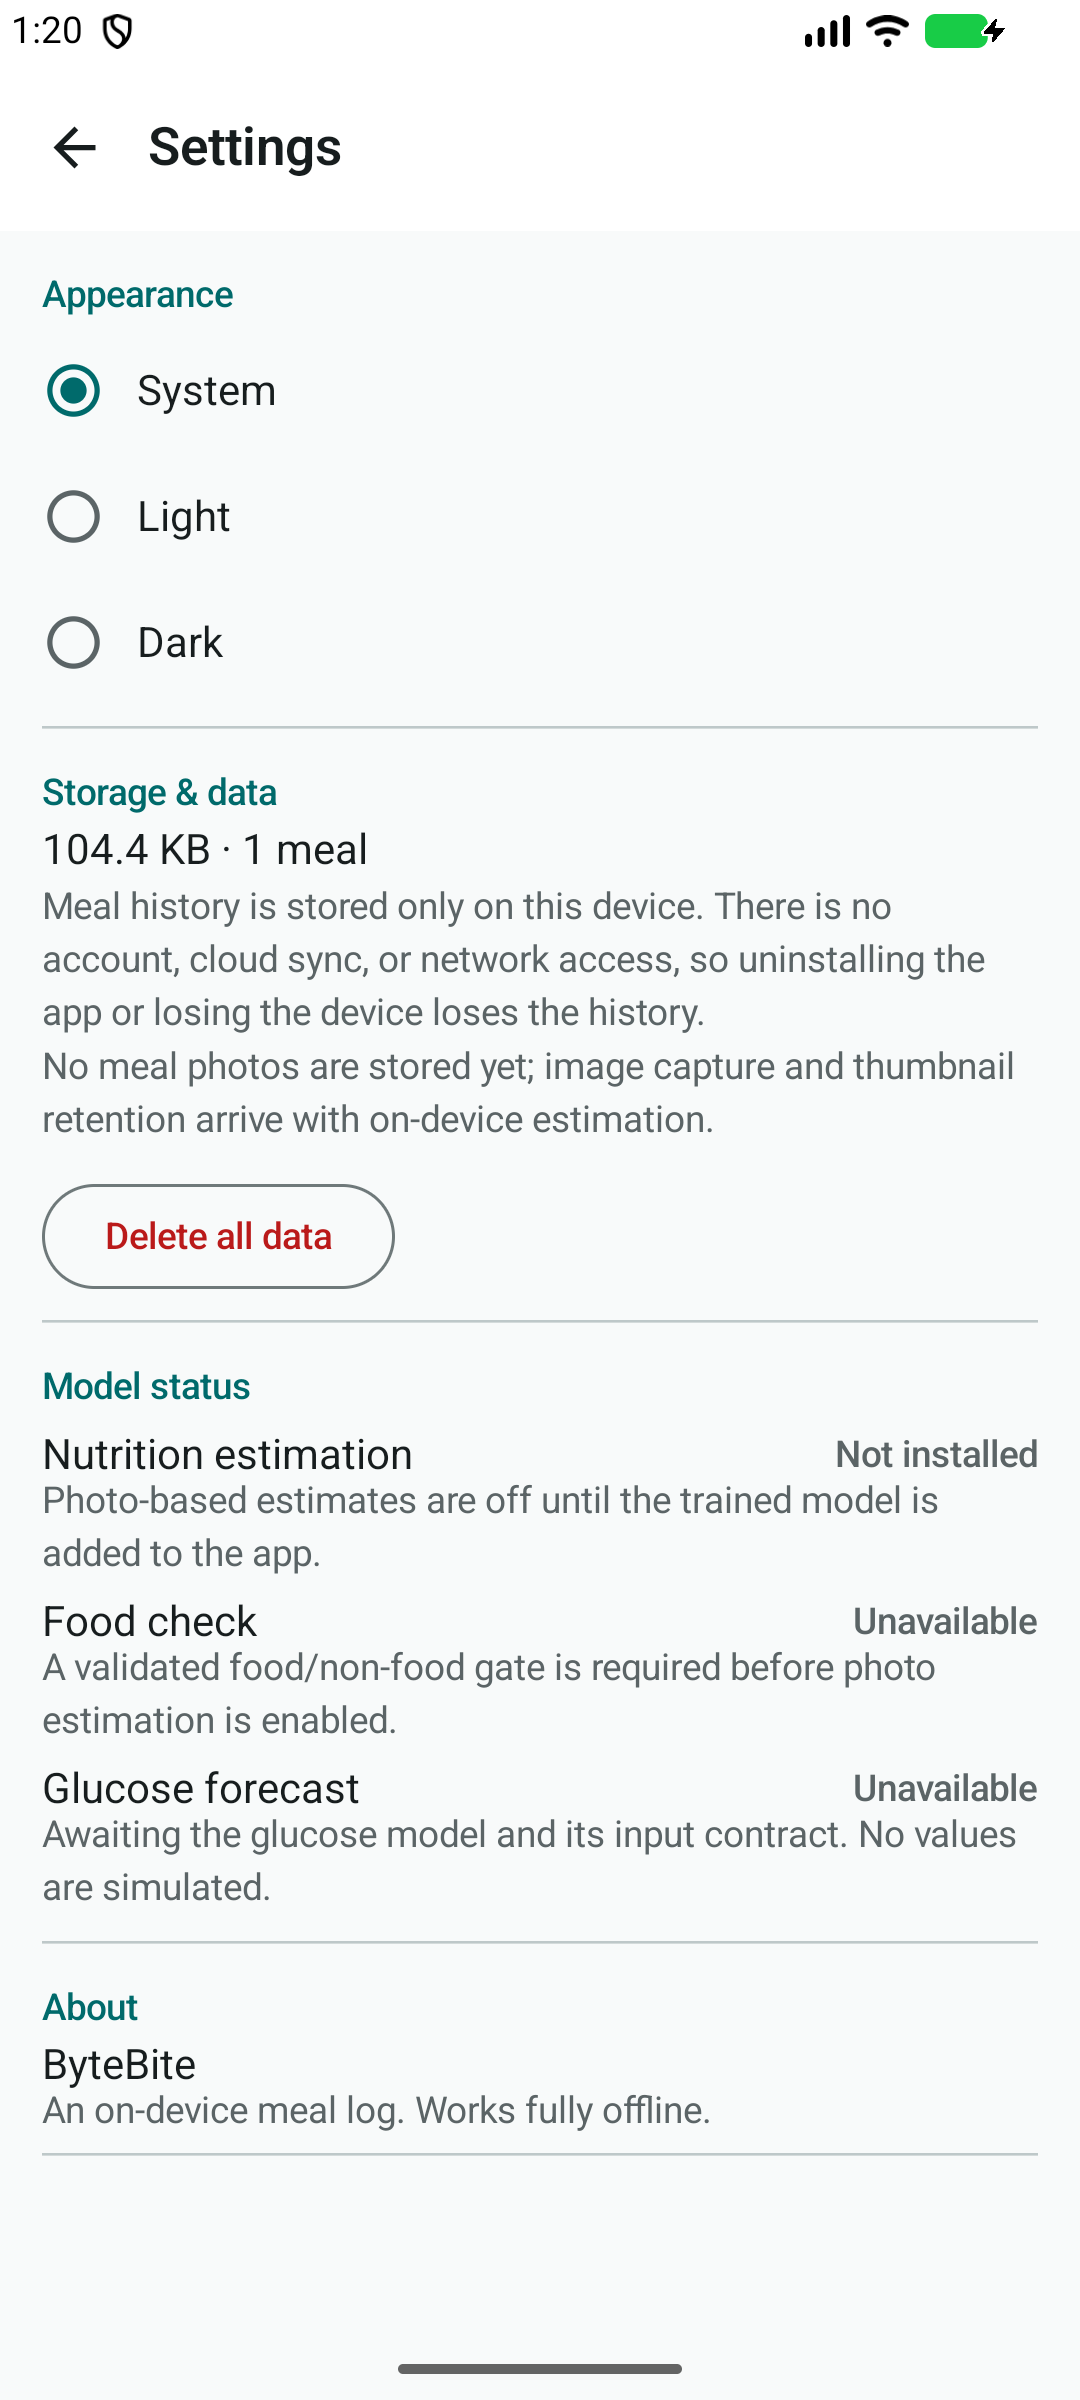
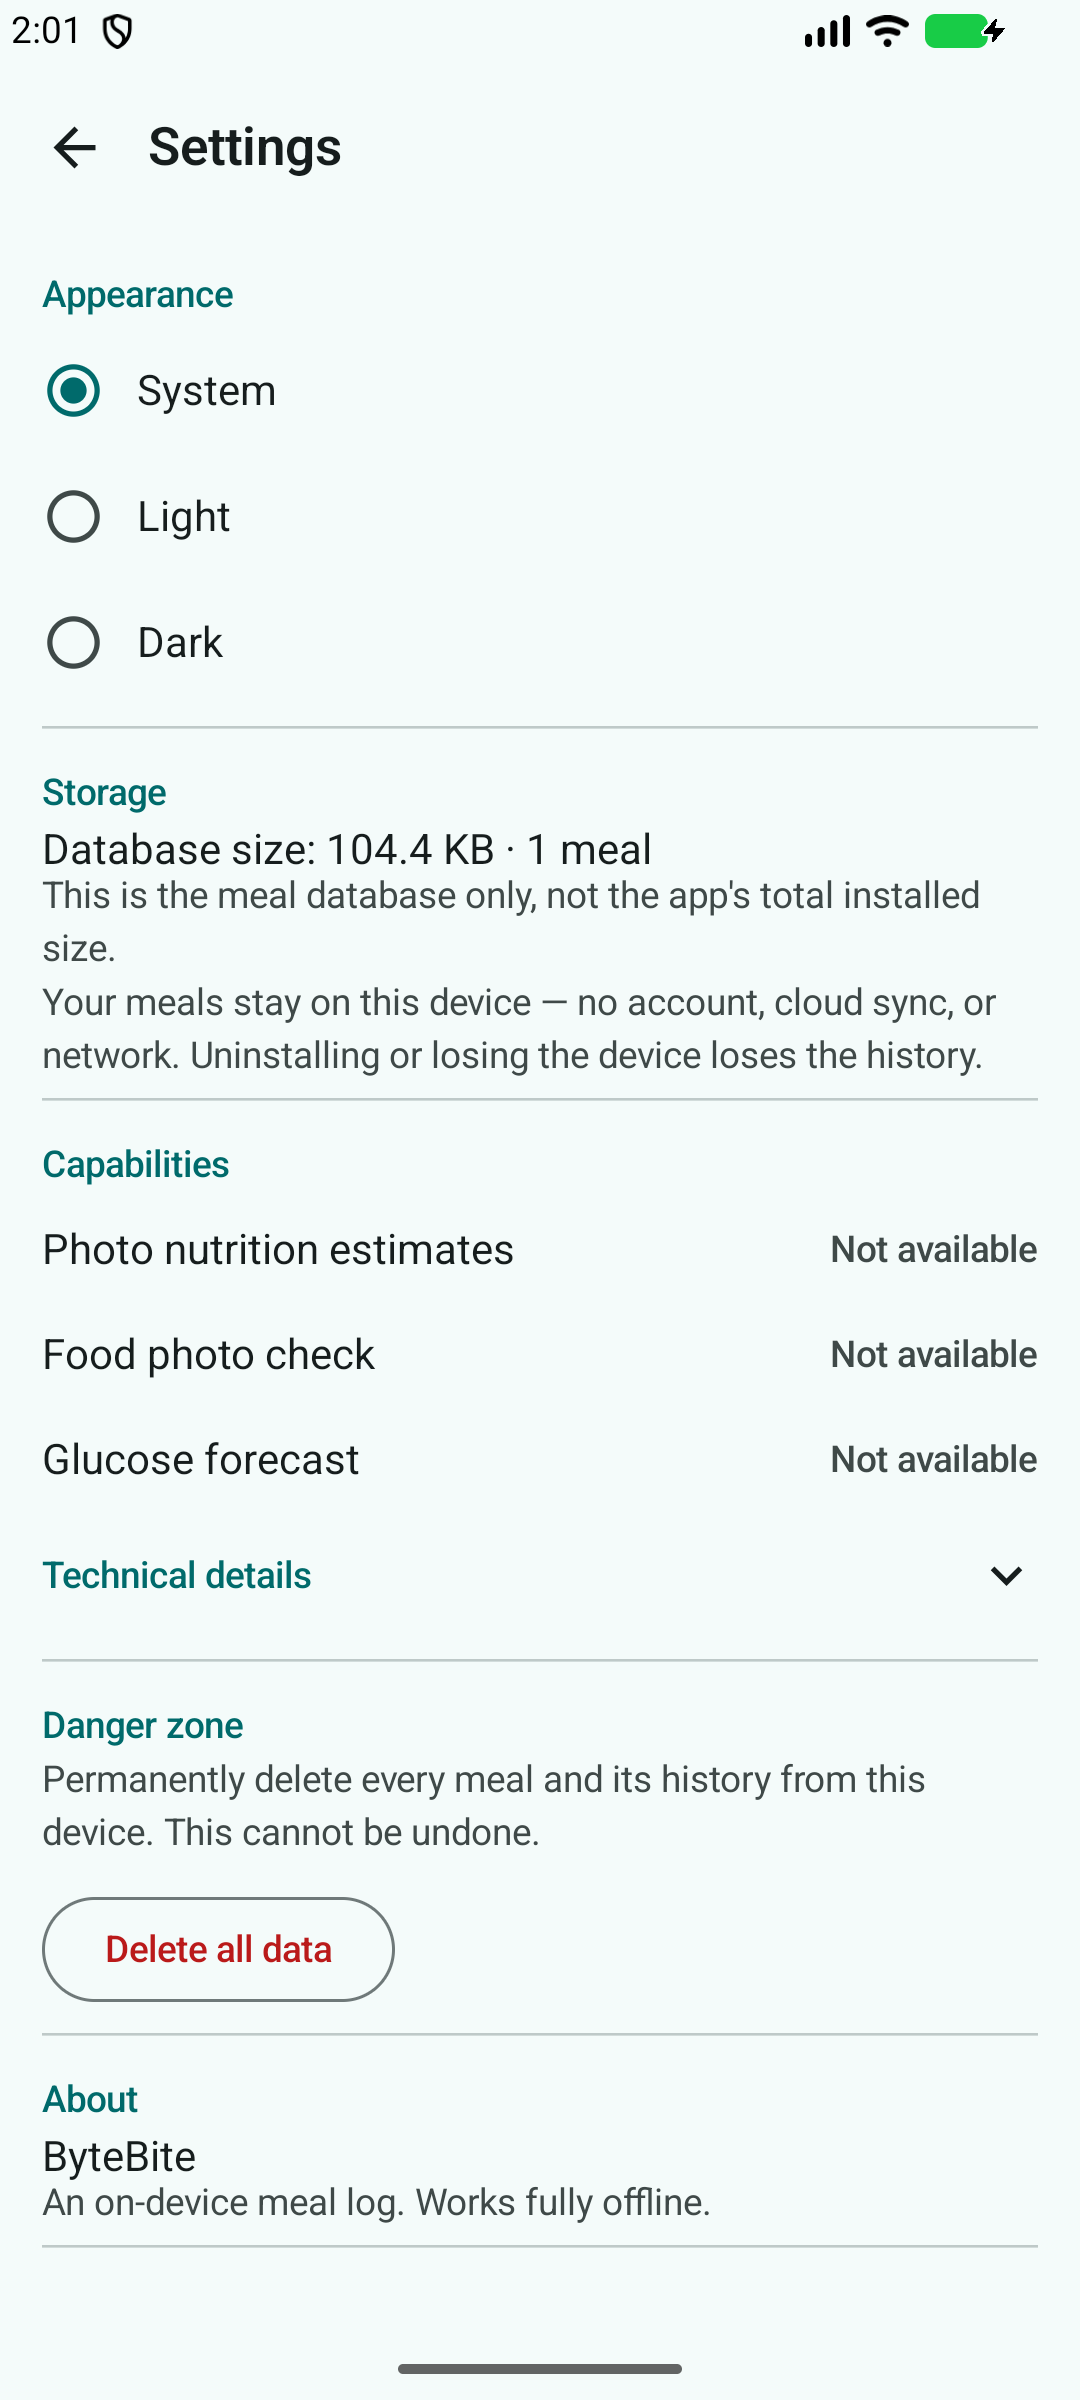
Document fixtures provenance, refresh design screenshots and status

diff --git a/docs/implementation/status.md b/docs/implementation/status.md
@@ -30,6 +30,34 @@ explicit number-parsing policy (#5), partial-total handling that still counts a
 meal with unknown values (#6), Today day-rollover on resume (#7), and an
 observed single-query + LazyColumn history (#8).
 
+## Update — design-system, privacy, and reliability pass
+
+- **Color system completed**: every Material role defined for light and dark
+  from the teal/slate palette, removing the unintended violet from the
+  navigation indicator, dialogs, and container surfaces. Status/navigation bar
+  icon contrast now follows the resolved theme.
+- **Today** summary is responsive (one row, else 2x2) and holds up at 200% font
+  (units no longer wrap mid-word); unknown ("—") vs known-zero ("0") vs partial
+  ("Known totals") stay distinct.
+- **Privacy/backup**: the meal database (and future meal images) are excluded
+  from OS cloud backup and device transfer; README/README_MODEL/data-storage
+  text updated to match; `BackupRulesTest` guards it.
+- **Settings**: concise capability statuses with technical detail in an
+  expandable, storage figure labelled "Database size" (not total app size),
+  destructive delete moved to a "Danger zone"; delete-all has progress, a
+  retryable failure path (data intact), success feedback, cancellation-safe
+  handling, and an injectable IO dispatcher.
+- **Add/Edit**: discard-changes confirmation on back once the form is dirty;
+  the edited flag survives process recreation.
+- **Fixtures**: `androidTest/assets/photocheck/README.md` documents the 27
+  food/non-food images as held-out software-behaviour fixtures and flags that
+  their per-image source/license is not yet recorded and must be confirmed
+  before reliance/publication.
+
+Verified on the emulator: Today (empty / populated / partial), Settings, and
+light + dark themes, plus a 200% font-scale pass. Not yet exercised this pass:
+a 320 dp narrow device, landscape, and TalkBack (reported as unverified).
+
 ## Build environment (verified this session)
 
 - JDK: Android Studio **JBR 21** at `C:\Program Files\Android\Android Studio\jbr`.
@@ -96,10 +124,14 @@ layer (the foundation is now used, not just present):
 
 ## Checks run (latest)
 
-- `testDebugUnitTest`: **PASS** — **72 tests, 0 skipped**. Domain/repo/mappers,
+- `testDebugUnitTest`: **PASS** — **77 tests, 0 skipped**. Domain/repo/mappers,
   `MealInputTest` (25, incl. the number-parsing policy), the view-model
-  regression tests (AddEdit 6, Today 3, History 1), and **Compose UI tests on
-  the JVM via Robolectric** (Today 2, Add 1, Screens 3).
+  regression tests (AddEdit, Today, History, Settings), `BackupRulesTest`, and
+  **Compose UI tests on the JVM via Robolectric** (Today, Add, Screens). Note:
+  Robolectric tests are JVM tests, not real-device tests.
+  `connectedDebugAndroidTest` (Room + migration, 11, 0 failures;
+  `ModelFixtureTest` 3 skipped without model assets) re-run green on the
+  emulator after this design pass.
 - `assembleDebug`: **PASS** — `app/build/outputs/apk/debug/app-debug.apk`
   (~66 MB; size dominated by the LiteRT native libraries).
 - `connectedDebugAndroidTest` on `Medium_Phone`: **PASS**, 11, 0 failures —

diff --git a/android/app/src/androidTest/assets/photocheck/README.md b/android/app/src/androidTest/assets/photocheck/README.md
@@ -1,0 +1,37 @@
+# photocheck fixtures
+
+A small set of 27 images used only as **software-behaviour fixtures** for the
+food-acceptance (food/non-food) evaluation harness:
+
+- `food_00.jpg` … `food_11.jpg` — 12 images labelled **food**.
+- `nonfood_00.jpg` … `nonfood_13.jpg` — 14 images labelled **non-food**.
+- `nonfood_screen.jpg` — a food photo shown **on a screen** (a non-food /
+  unsupported-scene case: the gate should not treat a photo-of-a-photo as a real
+  meal).
+
+## What this set is and is not
+
+- It exercises the code paths of a food-gate boundary (accepted / non-food /
+  poor-quality / unsupported / uncertain / unavailable). It is **not** evidence
+  that any detector works: 27 images cannot establish non-food acceptance rate,
+  legitimate-meal rejection rate, coverage, or accuracy. A real evaluation needs
+  a held-out dataset with reported sample counts and confidence intervals.
+- These are **held-out** fixtures only. Do not tune thresholds or train against
+  them; threshold selection and training must use separate data so this set
+  stays an honest check.
+- No model/classifier is integrated yet, so these are not currently consumed by
+  a passing test; they are staged for when the food-gate service is implemented.
+
+## Provenance and licensing — ACTION REQUIRED
+
+The original **source, author, and license of each image are not yet recorded**
+and must be confirmed before these files are relied upon or published. Until a
+verified source/license is documented here per image, treat them as
+unverified QA placeholders:
+
+- If any image is not clearly licensed for this use, replace it with an image
+  that is (e.g. self-captured QA photos or an explicitly-licensed dataset) and
+  record the source/author/license/label here.
+- Do not assume these are safe to redistribute.
+
+This note exists so the gap is explicit rather than hidden.

diff --git a/docs/design/android-ui.md b/docs/design/android-ui.md
@@ -86,7 +86,18 @@ on the emulator.
 |---|---|
 | Today (light) | ![Today light](screenshots/today-light.png) |
 | Today (dark) | ![Today dark](screenshots/today-dark.png) |
+| Today (empty) | ![Today empty](screenshots/today-empty.png) |
+| Today (200% font) | ![Today 200% font](screenshots/today-font-200.png) |
 | Add meal | ![Add meal](screenshots/add-meal.png) |
 | Add meal — validation | ![Add validation](screenshots/add-validation.png) |
 | History | ![History](screenshots/history.png) |
 | Settings | ![Settings](screenshots/settings.png) |
+
+## Color roles and system bars
+
+Every Material role is defined for both themes from the teal/slate palette, so
+no component falls back to the violet baseline (the navigation indicator,
+dialogs, and container surfaces are all teal/slate). Status- and navigation-bar
+icon contrast is set from the resolved theme, so icons stay readable in light,
+dark, and when the theme is switched in app. Verified on the emulator in light
+and dark and at 200% font scale (the summary folds to a 2x2 grid).
